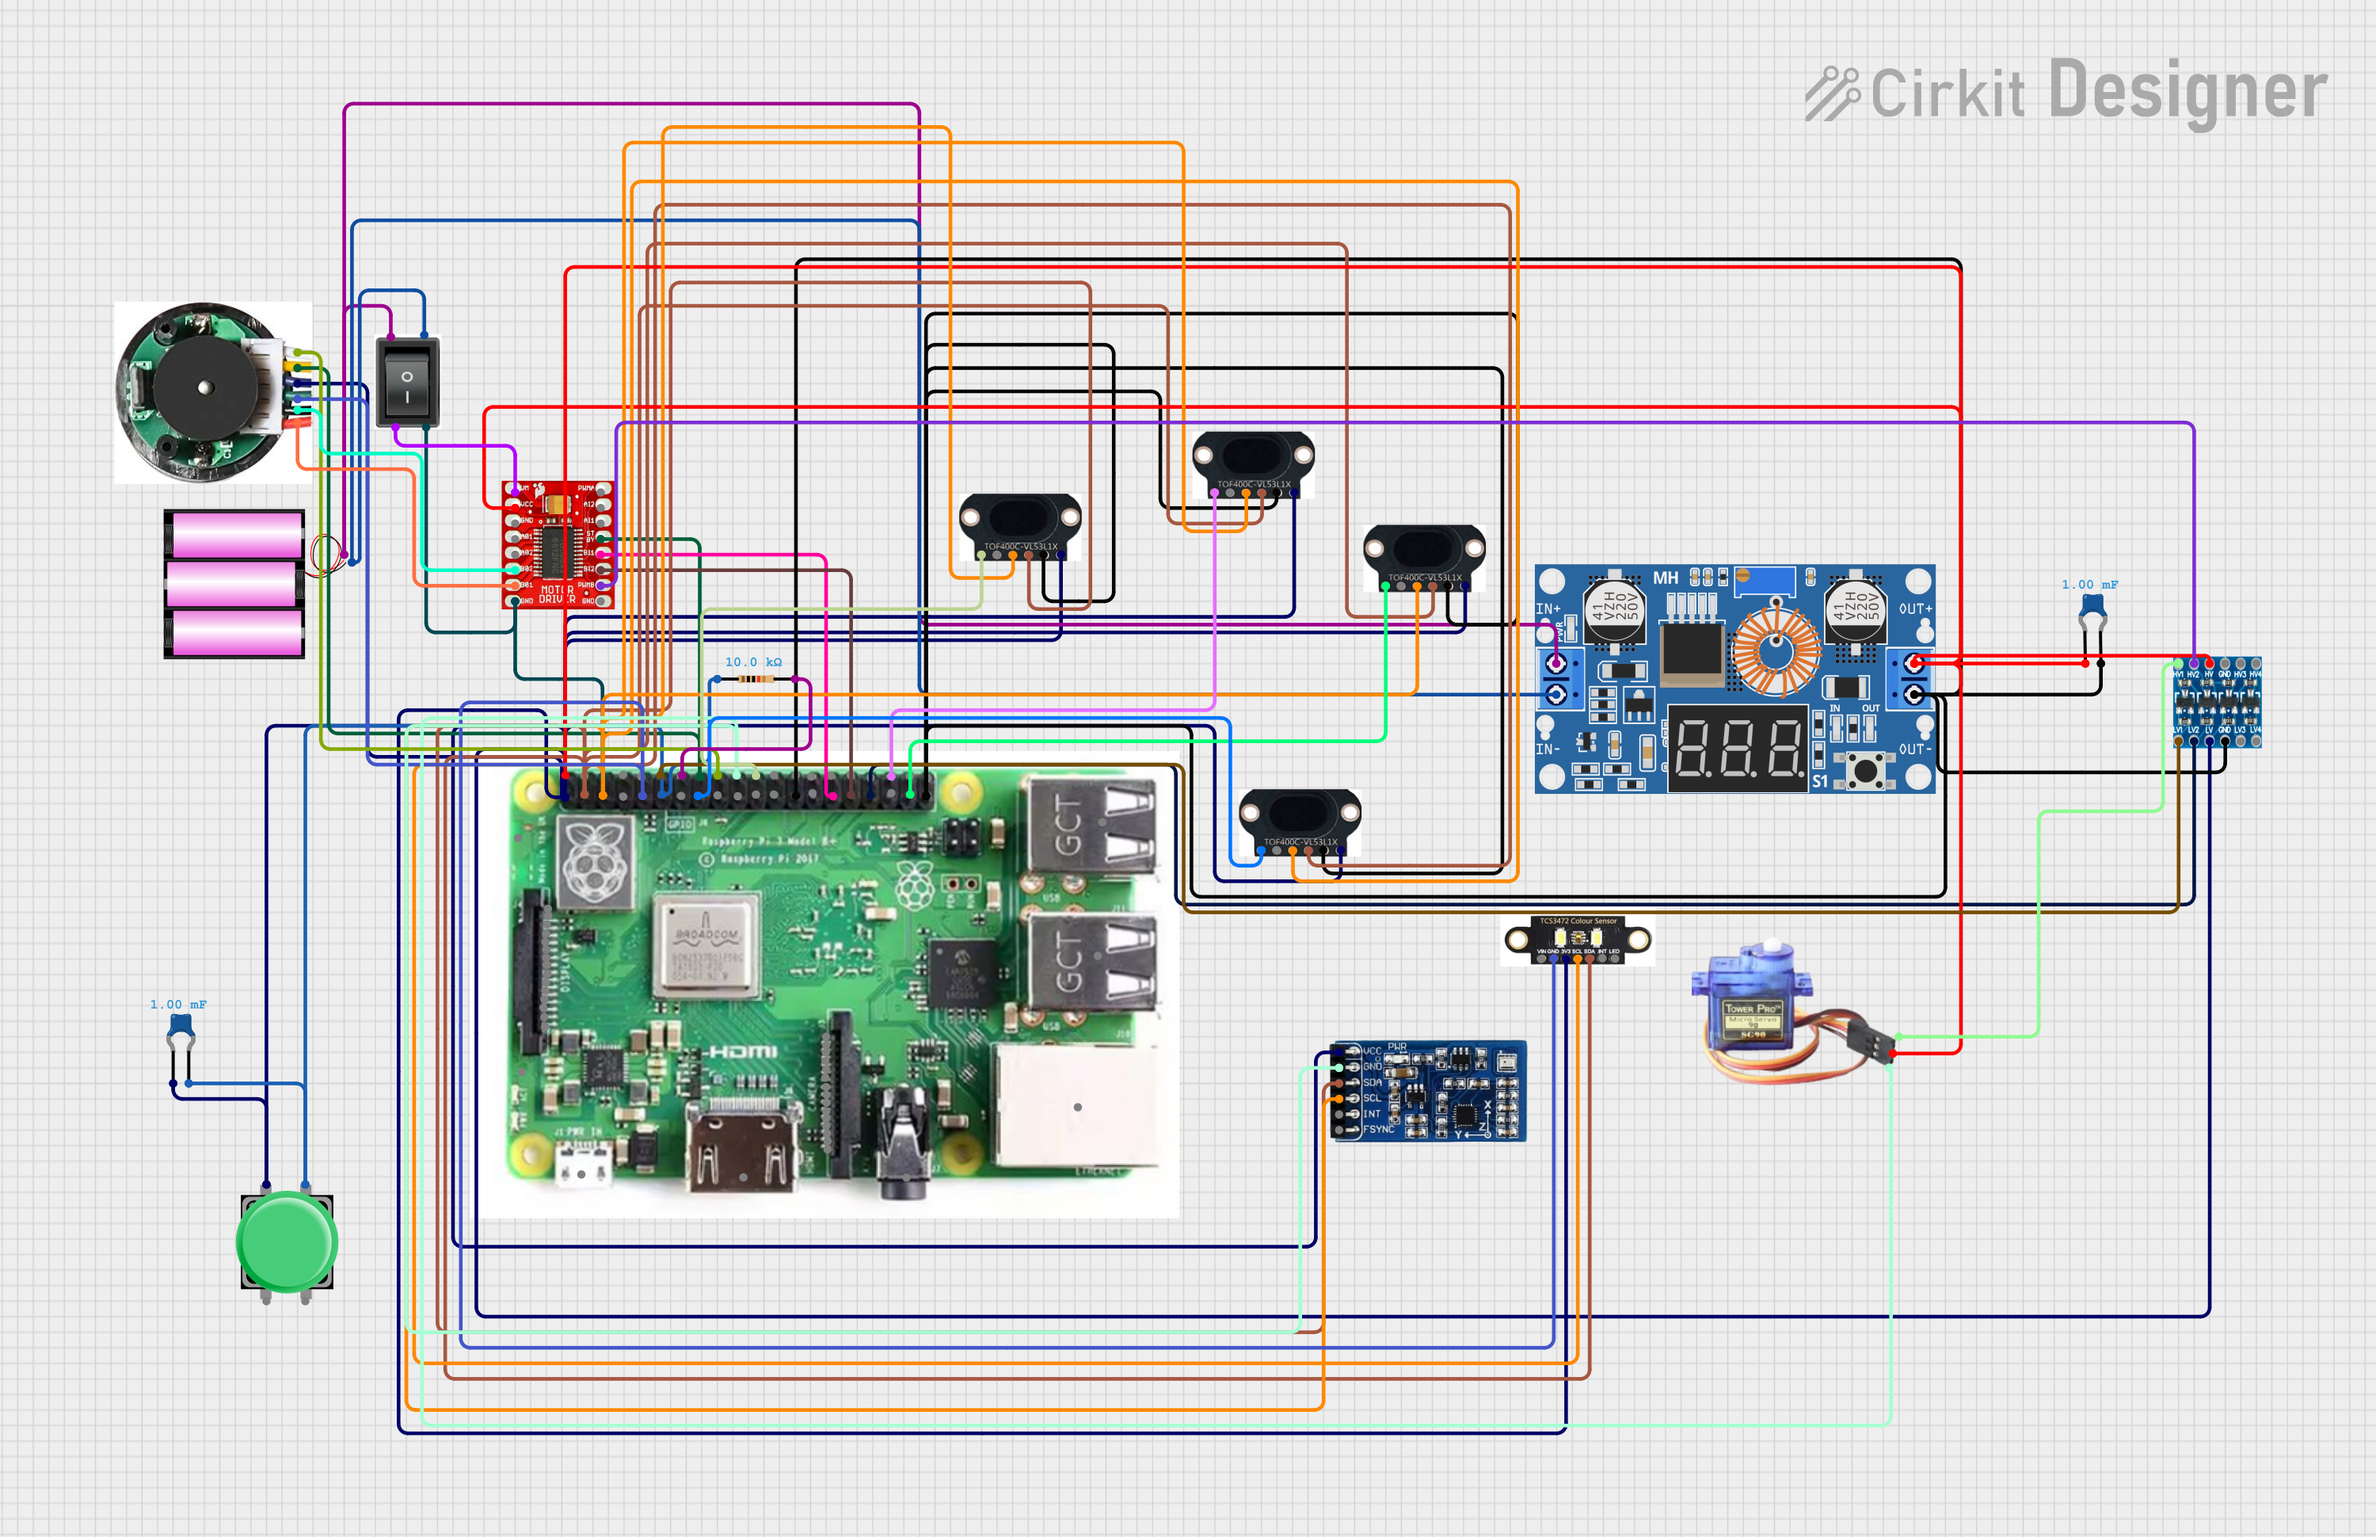
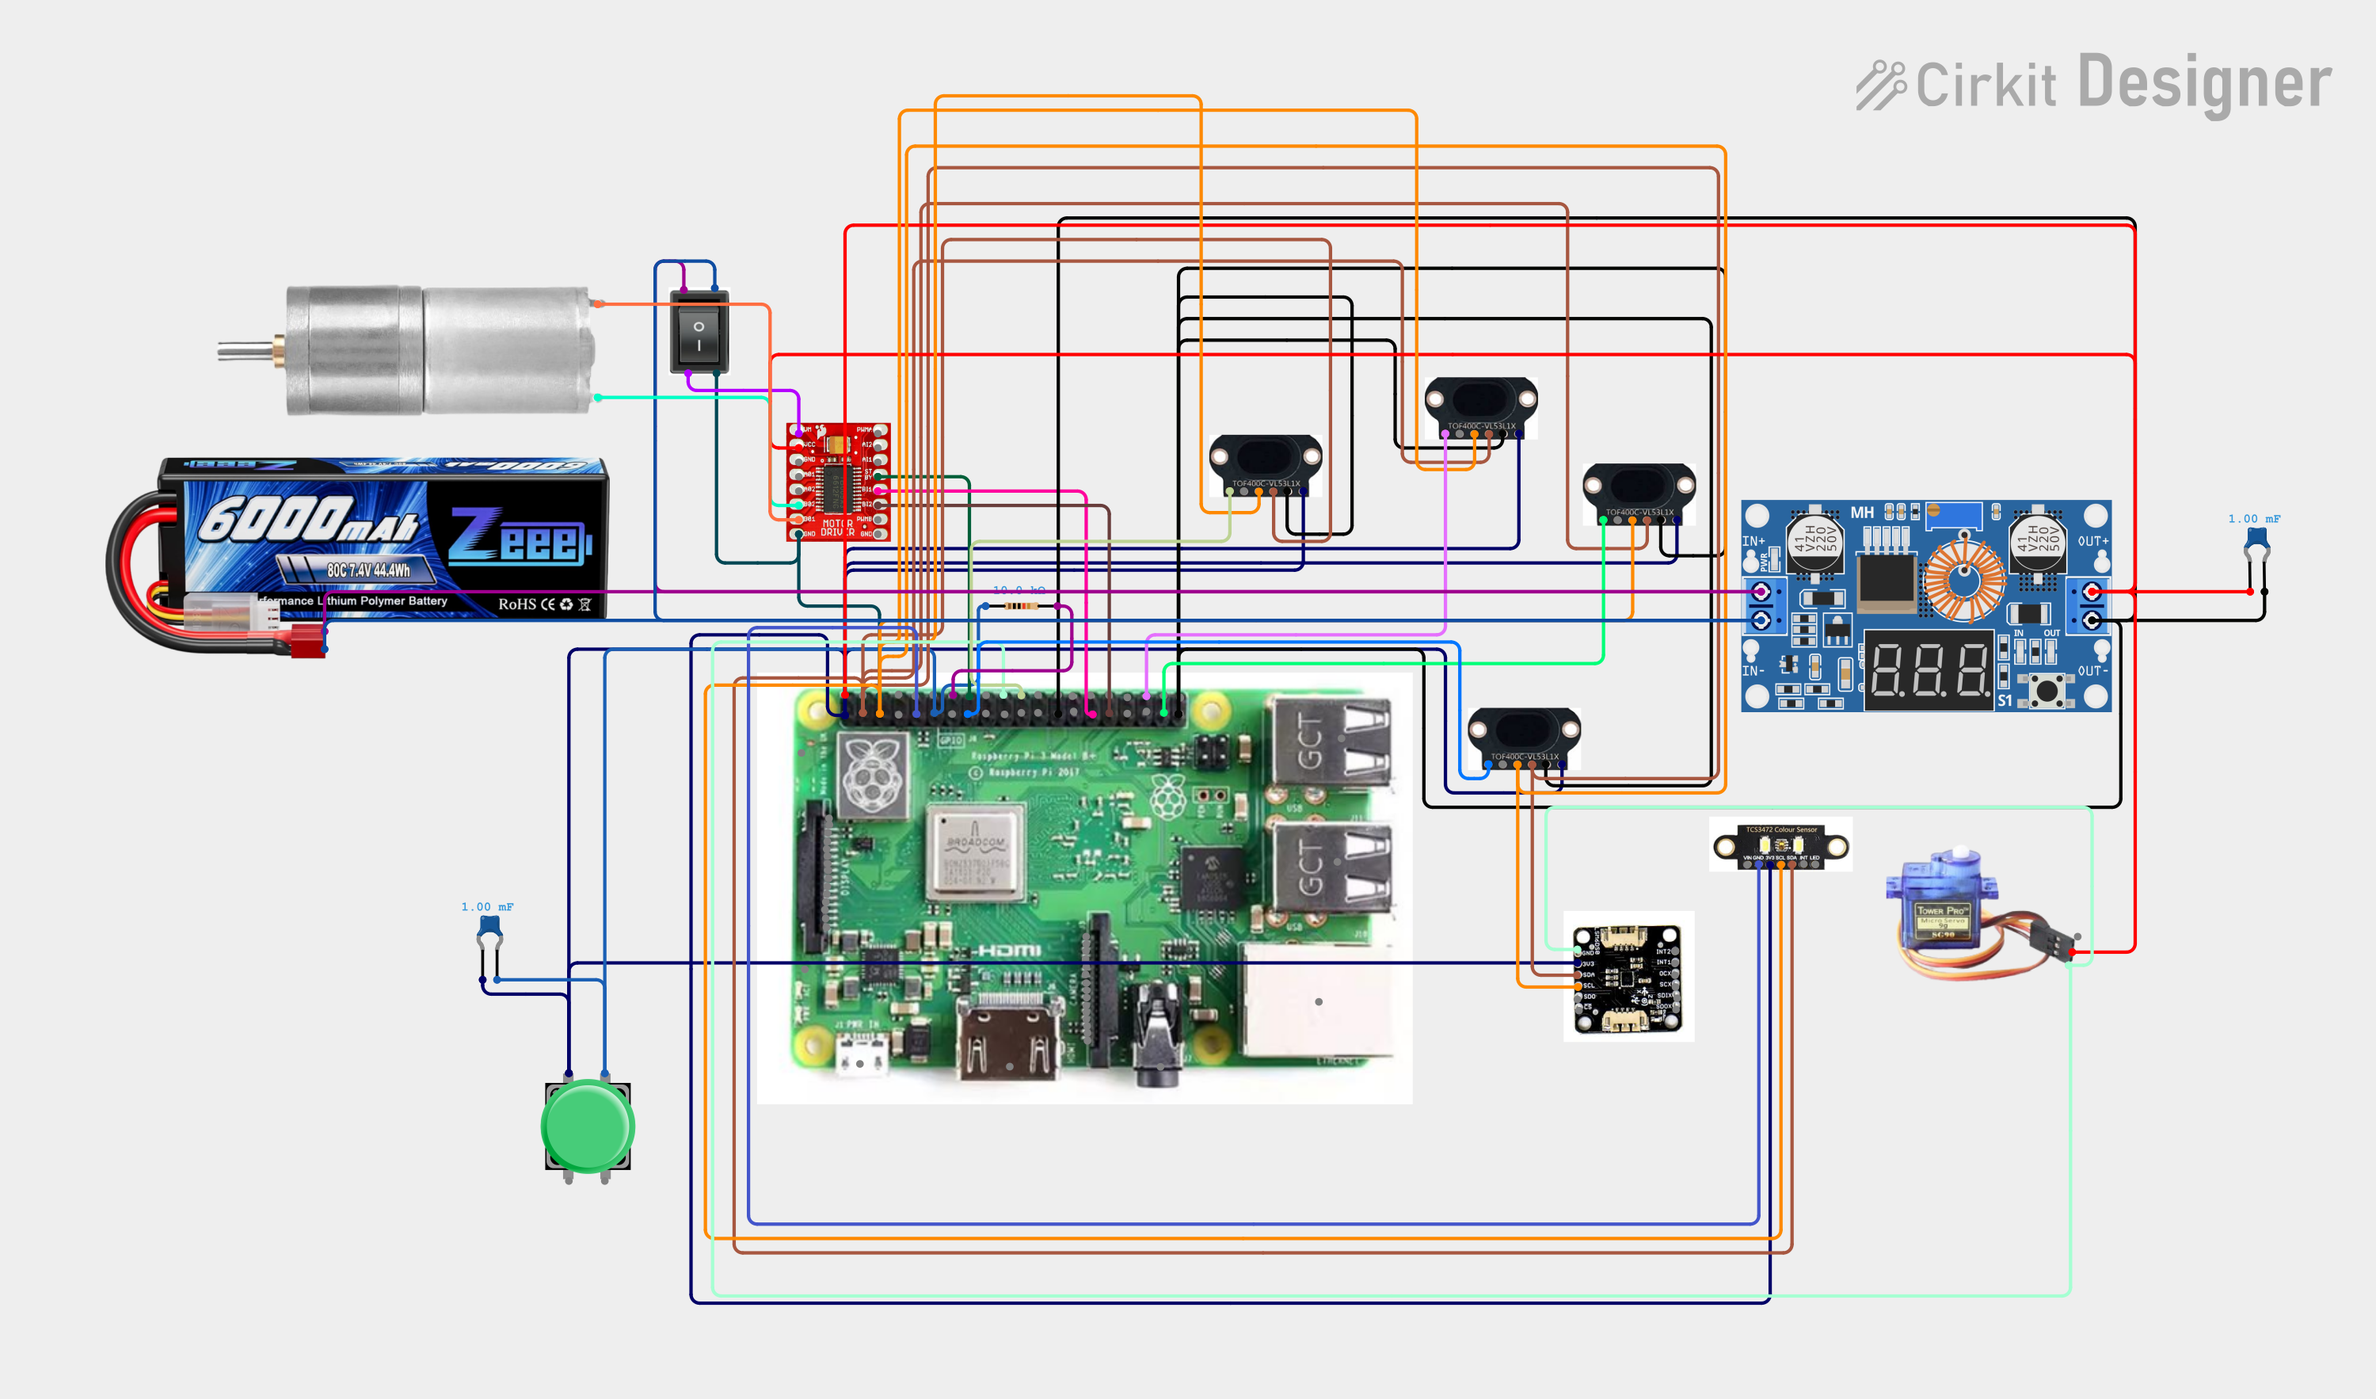
docs: updated wiring diagram (2S LiPo, LSM6DSOX, encoder-free); archive 07-03 revision

diff --git a/schemes/README.md b/schemes/README.md
@@ -2,15 +2,14 @@
 
 ![Artemis Wiring Diagram](circuit_image.png)
 
-Editable source: [`circuit_image.svg`](circuit_image.svg) · full schematic PDF: [`../docs/schematics/`](../docs/schematics)
+Full schematic PDF: [`../docs/schematics/`](../docs/schematics) · previous revision (2026-07-03): [`archive/`](archive)
 
-The diagram (drawn 2026-07-03 in Cirkit Designer) shows the complete electrical system: the 3S pack (3 × 18650) feeding the TB6612FNG motor driver directly and the XL4015 buck producing the 5 V rail for the Raspberry Pi 3B+, SG90 steering servo, and sensor set — 4× VL53L1X ToF via individual XSHUT lines, IMU, TCS34727 color sensor, plus the gearmotor, start button, and power switch. The OV5647 camera connects via the Pi's CSI ribbon and is not part of the GPIO loom.
+The diagram (updated 2026-07-18 in Cirkit Designer) shows the complete electrical system: the **7.4 V 2S LiPo pack** feeding the TB6612FNG motor driver directly and the XL4015 buck producing the 5 V rail for the Raspberry Pi 3B+, SG90 steering servo, and sensor set — 4× VL53L1X ToF via individual XSHUT lines, LSM6DSOX IMU, TCS34727 color sensor, plus the DC gearmotor, start button (with 10 kΩ pulldown), and power switch. The OV5647 camera connects via the Pi's CSI ribbon and is not part of the GPIO loom.
 
-**Known changes since this revision of the diagram** (pin-level ground truth is always [`../src/robot/hardware_config.py`](../src/robot/hardware_config.py)):
-- The MPU6050 shown was replaced by an **LSM6DSOX** on 2026-07-16 (same I2C bus wiring; the original part was a counterfeit — see the root README §4).
-- The drive motor moved from TB6612 **channel B to channel A** after channel B failed at chip level; the driver's logic inputs are now driven directly from 3.3 V GPIO, so the level shifter shown remains in use only on the servo signal path.
-- The color sensor now sits on a dedicated software I2C bus (GPIO20/21) to escape the address clash with the ToF boot sequence.
-- The 3×18650 holder shown was replaced by a **7.4 V 2S LiPo pack (5000 mAh, built-in protection board)**; same feed points (TB6612 VM + XL4015 input).
-- The gearmotor's encoder leads appear in the diagram but are **unused** — the control stack is encoder-free.
+Notes (pin-level ground truth is always [`../src/robot/hardware_config.py`](../src/robot/hardware_config.py)):
+- The battery is drawn with a generic 2S LiPo illustration; the actual pack is a **7.4 V 5000 mAh (37 Wh) "Xtreme 1"** with a built-in dual-protection board — label photo: [`../docs/images/battery-2s-lipo-label.jpeg`](../docs/images/battery-2s-lipo-label.jpeg).
+- The servo signal line physically passes through a level-shifter channel (LV1→HV1) that the diagram omits.
+- The motor drives from TB6612 **channel A** (channel B failed at chip level — root README §4), and its encoder is **unused**: the control stack is encoder-free.
+- The color sensor sits on a dedicated software I2C bus (GPIO20/21) to escape the address clash with the ToF boot sequence.
 
-**Why it's wired this way** — the power-distribution reasoning, current budget, I2C bus architecture (including the 50 kHz clock and the color sensor's dedicated bus), and the failure modes each choice guards against are documented in [`../docs/power-and-sensors.md`](../docs/power-and-sensors.md). Pin assignments and I2C addresses live in code as the single source of truth: [`../src/robot/hardware_config.py`](../src/robot/hardware_config.py).
+The 2026-07-03 revision in [`archive/`](archive) documents the earlier build state (MPU6050 before the counterfeit swap, 3×18650 pack, level shifter in the motor path) — kept as part of the iteration record.
